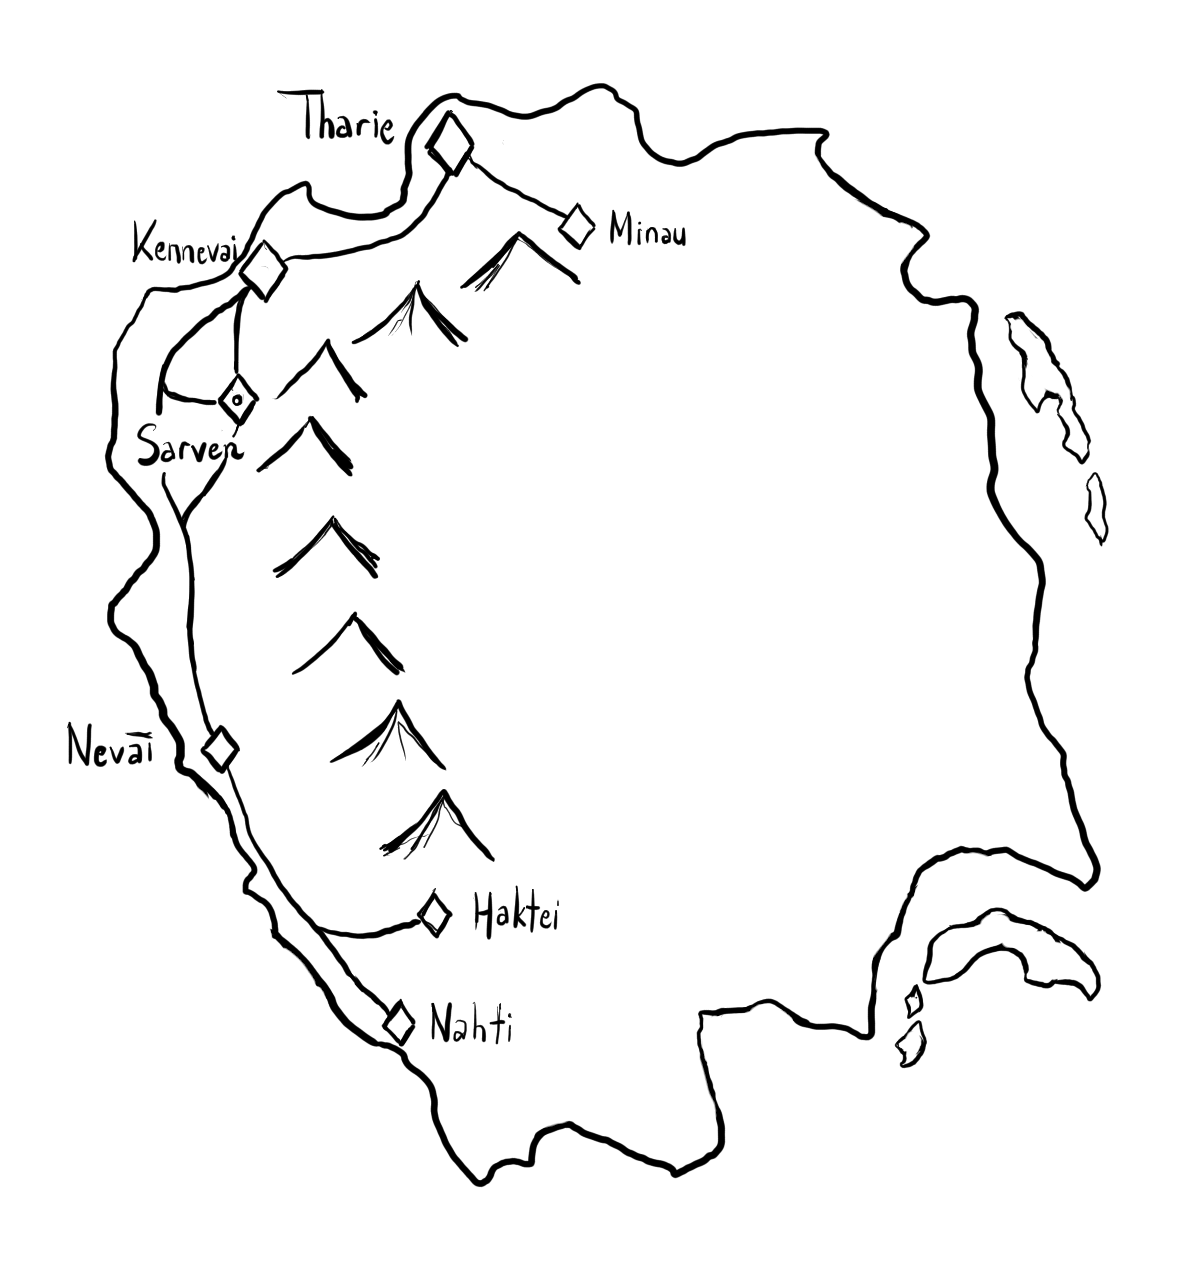
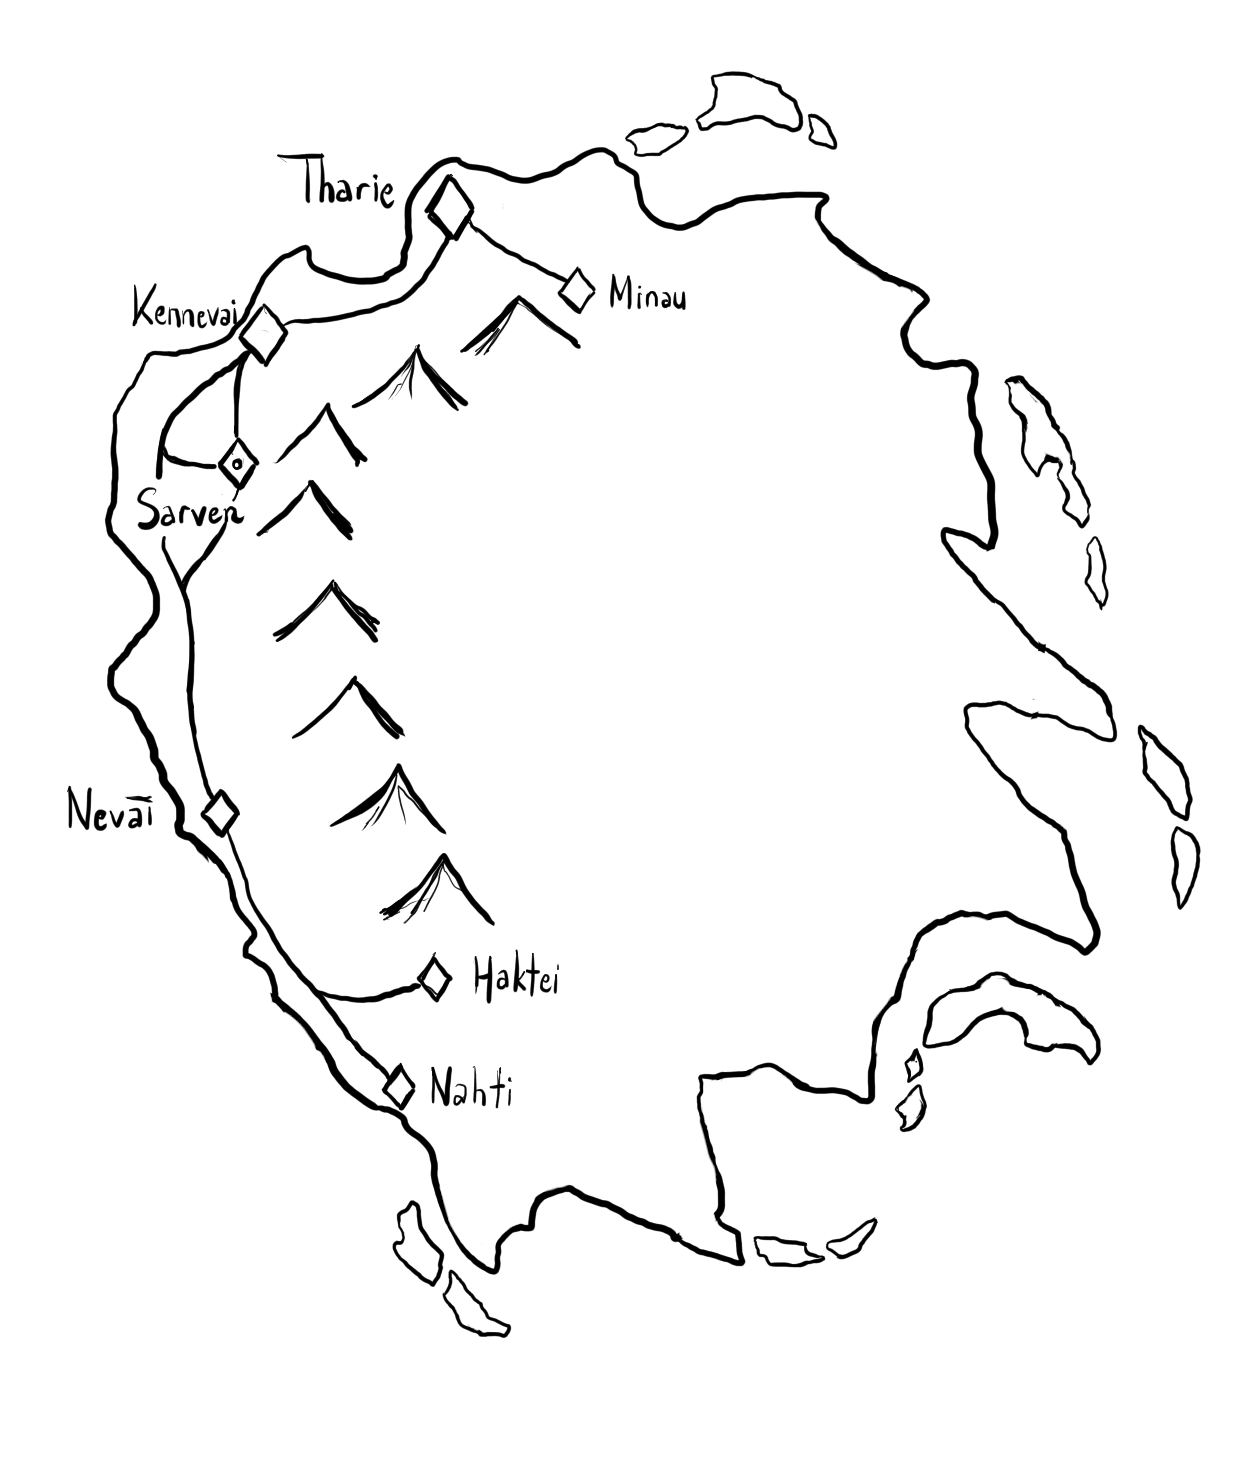
Terten Tortoise added, Kaer/Arennan maps updated, various fixes

Changed region(s): [[0.0308, 0.0308, 0.9558, 0.9535], [0.8633, 0.7382, 0.925, 0.7997], [0.4625, 0.8612, 0.4933, 0.892]]

diff --git a/Loreum/Topics/Geography/Baedoor_Continent/Kaer.md b/Loreum/Topics/Geography/Baedoor_Continent/Kaer.md
@@ -36,8 +36,9 @@
 Kaer (sometimes also *Kaertr* or *Khaer*, also *Aorat* in erdic) is island of big size located south of Vershaton.  
 Huge part of island's terrain is covered with forests, covering mountain pass on its eastern coast.
 
-Kaer is home of several cultures, most notably kehts and erds.  
-South of Kaer there's island Khacari that is usually considered as a local polity more loosely
+Kaer is home of several cultures, most notably [kehts](/Loreum/Topics/Cultures/Kehts/[Culture].md)
+and [erds](/Loreum/Topics/Cultures/Erds/[Culture].md).  
+South of Kaer there's island Kacari that is usually considered as a local polity more loosely
 bound to Erdic Kingdom despite formally being part of it. This also let it be treated more lightly
 during Baedoor occupation.
 

diff --git a/Langue/Families/Nomathian.md b/Langue/Families/Nomathian.md
@@ -14,3 +14,8 @@ Their language is known for rustly sound, which was often point of baedoorian jo
 |  serj  | rooted, old                                                                               | ser:j         |     -     |
 | skirr  | cold coast                                                                                | ʃ:kirr        |     -     |
 |  wešš  | word used at jitadish governors and army, pejorative                                      | weʃ↑:         |     -     |
+
+### Various notes
+**Gh** should have various pronunciation, e.g. while `nahegh` is read as `nahekh`, `neghdit` should
+be just `negdit`; either this should have some rules under which it works, or be a matter of accent
+between Baedoor nomathians and serj I guess

diff --git a/Loreum/Topics/Characters/List/Varteford_Elea.md b/Loreum/Topics/Characters/List/Varteford_Elea.md
@@ -9,7 +9,7 @@ Elea is known for her activism in support of women and workers, about which she 
 Her beliefs were sometimes criticised for lack of radicalism and bringing thoughts contradictory to her
 mission, but many found her views as a soothing middle-ground supporting acting without abandonment of
 traditional beliefs.  
-It's worth noting that Elea's husband supported her beliefs, supporting them through some laws passed
+It's worth noting that Elea's husband supported her beliefs, backing them through some laws passed
 during his reign.
 
 ---

diff --git a/Loreum/Topics/Cultures/Tertens_Vaerdena/[Culture].md b/Loreum/Topics/Cultures/Tertens_Vaerdena/[Culture].md
@@ -64,6 +64,16 @@ into good and evil - they rather perceive things are intertwined unity.
             Ceremonial armour worn by guards
         </td>
     </tr>
+    <tr>
+        <td colspan="2" align="center">
+            <img alt="" src="/Assets/terten_tortoise_tank.png" height="500px">
+        </td>
+    </tr>
+    <tr>
+        <td colspan="2">
+            Terten tortoise tank, with mage enchanting the harpoon missile as it was launched
+        </td>
+    </tr>
 </table>
 
 ---
